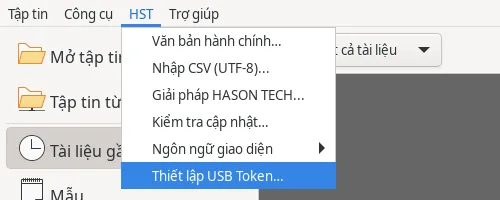
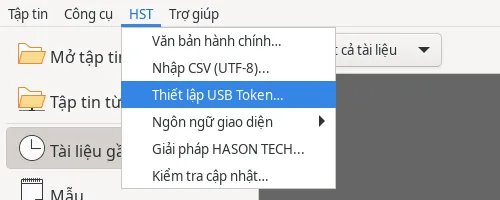
feat(website): sync the reordered HST menu screenshots and version guide images by content

diff --git a/website/office.hasontech.vn/huong-dan/ky-so-usb-token/index.html b/website/office.hasontech.vn/huong-dan/ky-so-usb-token/index.html
@@ -165,8 +165,8 @@
   <li>Đọc kết quả: thư viện đã tìm thấy, đã đăng ký và đường dẫn kho chứng thư. Lệnh chỉ kết nối driver đã cài với HST Office; không cài hoặc kèm driver.</li>
   <li>Nếu được yêu cầu, đóng hết cửa sổ HST Office rồi mở lại. Cắm token và vào <span class="menu">Tập tin ▸ Chữ ký số…</span> để chọn chứng thư và ký.</li>
 </ol>
-<figure><picture><source type="image/webp" srcset="/huong-dan/images/usb-token-menu.webp"><img decoding="async" src="/huong-dan/images/usb-token-menu.png" alt="Menu HST đang mở ở Trang bắt đầu, mục cuối cùng Thiết lập USB Token… đang được chọn." loading="lazy" width="500" height="200"></picture><figcaption>Menu <span class="menu">HST ▸ Thiết lập USB Token…</span> ở Trang bắt đầu.</figcaption></figure>
-<figure><picture><source type="image/webp" srcset="/huong-dan/images/usb-token-result.webp"><img decoding="async" src="/huong-dan/images/usb-token-result.png" alt="Hộp thoại Thiết lập USB Token báo kho chứng thư /home/nguoidung/.pki/nssdb, đã tìm thấy và đăng ký Feitian ePass2003 tại /usr/lib/x86_64-linux-gnu/libcastle.so.1.0.0, yêu cầu khởi động lại HST Office; nút Đồng ý." loading="lazy" width="585" height="232"></picture><figcaption>Kết quả sau khi đăng ký thành công: kho chứng thư, thư viện đã đăng ký và việc cần làm tiếp theo.</figcaption></figure>
+<figure><picture><source type="image/webp" srcset="/huong-dan/images/usb-token-menu.webp?v=1f6c6dea"><img decoding="async" src="/huong-dan/images/usb-token-menu.png?v=1f6c6dea" alt="Menu HST đang mở ở Trang bắt đầu, mục Thiết lập USB Token… đang được chọn." loading="lazy" width="500" height="200"></picture><figcaption>Menu <span class="menu">HST ▸ Thiết lập USB Token…</span> ở Trang bắt đầu.</figcaption></figure>
+<figure><picture><source type="image/webp" srcset="/huong-dan/images/usb-token-result.webp?v=6bcb2bf1"><img decoding="async" src="/huong-dan/images/usb-token-result.png?v=6bcb2bf1" alt="Hộp thoại Thiết lập USB Token báo kho chứng thư /home/nguoidung/.pki/nssdb, đã tìm thấy và đăng ký Feitian ePass2003 tại /usr/lib/x86_64-linux-gnu/libcastle.so.1.0.0, yêu cầu khởi động lại HST Office; nút Đồng ý." loading="lazy" width="585" height="232"></picture><figcaption>Kết quả sau khi đăng ký thành công: kho chứng thư, thư viện đã đăng ký và việc cần làm tiếp theo.</figcaption></figure>
 <p>Chạy lại lệnh không tạo bản đăng ký trùng và không xóa thư viện đã đăng ký. Thiết lập không yêu cầu mã PIN; hộp thoại ký tài liệu mới hỏi mã PIN của thiết bị.</p>
 <div class="note"><p>Nếu chưa tìm thấy thư viện, cài driver từ nhà cung cấp của bạn rồi chạy lại lệnh. Các tên thường gặp gồm Feitian ePass2003, SafeNet eToken, Bit4id và OpenSC. Chỉ dùng OpenSC nếu loại token được hỗ trợ; không phải mọi token của nhà cung cấp đều dùng được với OpenSC.</p></div>
 
@@ -203,9 +203,9 @@
   <li>Bấm <span class="menu">Đóng</span>. Thanh thông báo hiện “Tài liệu này đã được ký điện tử và chữ ký hợp lệ.”</li>
 </ol>
 <p>Hình minh họa dùng chứng thư mẫu, chỉ phục vụ hướng dẫn.</p>
-<figure><picture><source type="image/webp" srcset="/huong-dan/images/usb-token-pin.webp"><img decoding="async" src="/huong-dan/images/usb-token-pin.png" alt="Hộp thoại Nhập mã PIN của thiết bị ký số USB Token với ô Mã PIN đang trống, các nút Trợ giúp, Huỷ và OK." loading="lazy" width="452" height="188"></picture><figcaption>Hộp thoại <span class="menu">Nhập mã PIN</span> của token. Mã PIN không hiển thị khi nhập.</figcaption></figure>
-<figure><picture><source type="image/webp" srcset="/huong-dan/images/usb-token-certificate.webp"><img decoding="async" src="/huong-dan/images/usb-token-certificate.png" alt="Hộp thoại Lựa chọn chứng chỉ, chứng thư nạp từ /home/nguoidung/.pki/nssdb; dòng Cấp cho CÔNG TY TNHH CÔNG NGHỆ HÀ SƠN, Cấp bởi VNPT-CA SHA-256, kiểu X.509, hết hạn 31/10/2029 đang được chọn; ô Mô tả và nút Ký." loading="lazy" width="858" height="590"></picture><figcaption>Chọn chứng thư trên token trong hộp thoại <span class="menu">Lựa chọn chứng chỉ</span>, rồi bấm <span class="menu">Ký</span>. Hình minh họa dùng chứng thư mẫu, chỉ phục vụ hướng dẫn.</figcaption></figure>
-<figure><picture><source type="image/webp" srcset="/huong-dan/images/usb-token-signed.webp"><img decoding="async" src="/huong-dan/images/usb-token-signed.png" alt="Văn bản bao-cao-nam.odt đã ký trong HST Writer, tiêu đề thẻ ghi Đã ký, thanh thông báo xanh: Tài liệu này đã được ký điện tử và chữ ký hợp lệ, nút Hiện chữ ký." loading="lazy" width="1000" height="626"></picture><figcaption>Tài liệu đã ký: thanh thông báo báo chữ ký hợp lệ.</figcaption></figure>
+<figure><picture><source type="image/webp" srcset="/huong-dan/images/usb-token-pin.webp?v=e103e7ec"><img decoding="async" src="/huong-dan/images/usb-token-pin.png?v=e103e7ec" alt="Hộp thoại Nhập mã PIN của thiết bị ký số USB Token với ô Mã PIN đang trống, các nút Trợ giúp, Huỷ và OK." loading="lazy" width="452" height="188"></picture><figcaption>Hộp thoại <span class="menu">Nhập mã PIN</span> của token. Mã PIN không hiển thị khi nhập.</figcaption></figure>
+<figure><picture><source type="image/webp" srcset="/huong-dan/images/usb-token-certificate.webp?v=f640d792"><img decoding="async" src="/huong-dan/images/usb-token-certificate.png?v=f640d792" alt="Hộp thoại Lựa chọn chứng chỉ, chứng thư nạp từ /home/nguoidung/.pki/nssdb; dòng Cấp cho CÔNG TY TNHH CÔNG NGHỆ HÀ SƠN, Cấp bởi VNPT-CA SHA-256, kiểu X.509, hết hạn 31/10/2029 đang được chọn; ô Mô tả và nút Ký." loading="lazy" width="858" height="590"></picture><figcaption>Chọn chứng thư trên token trong hộp thoại <span class="menu">Lựa chọn chứng chỉ</span>, rồi bấm <span class="menu">Ký</span>. Hình minh họa dùng chứng thư mẫu, chỉ phục vụ hướng dẫn.</figcaption></figure>
+<figure><picture><source type="image/webp" srcset="/huong-dan/images/usb-token-signed.webp?v=15858599"><img decoding="async" src="/huong-dan/images/usb-token-signed.png?v=15858599" alt="Văn bản bao-cao-nam.odt đã ký trong HST Writer, tiêu đề thẻ ghi Đã ký, thanh thông báo xanh: Tài liệu này đã được ký điện tử và chữ ký hợp lệ, nút Hiện chữ ký." loading="lazy" width="1000" height="626"></picture><figcaption>Tài liệu đã ký: thanh thông báo báo chữ ký hợp lệ.</figcaption></figure>
 
 <h2>6. Xuất PDF có chữ ký số</h2>
 <ol>

diff --git a/website/office.hasontech.vn/huong-dan/nd30/index.html b/website/office.hasontech.vn/huong-dan/nd30/index.html
@@ -145,8 +145,8 @@
   <li>Ở thẻ <span class="menu">Trang đầu</span>, nhìn góc phải của dải lệnh, bên dưới <span class="menu">Tìm và thay thế</span>: nút <span class="menu">Văn bản hành chính</span>. Nút này luôn hiển thị ở đó, không bị thu vào dấu <span class="menu">»</span>.</li>
   <li>Cách khác: menu <span class="menu">HST → Văn bản hành chính…</span> (nếu thanh menu đang hiện), hoặc thẻ <span class="menu">Phần mở rộng</span>. Mục menu này có cả ở <span class="menu">Trang bắt đầu</span>, HST Sheets và HST Slides; khi chọn ở đó, HST Office tự mở một văn bản trắng mới rồi mới hiện hộp thoại.</li>
 </ol>
-<figure><picture><source type="image/webp" srcset="/huong-dan/images/nd30-where.webp"><img decoding="async" src="/huong-dan/images/nd30-where.png" alt="Thẻ Trang đầu của HST Writer, nút Văn bản hành chính nằm trong khung đỏ ở góc phải dải lệnh, dưới Tìm và thay thế." loading="lazy" width="1251" height="160"></picture><figcaption>Nút <span class="menu">Văn bản hành chính</span> trên thẻ <span class="menu">Trang đầu</span> (khung đỏ).</figcaption></figure>
-<figure><picture><source type="image/webp" srcset="/huong-dan/images/nd30-menu.webp"><img decoding="async" src="/huong-dan/images/nd30-menu.png" alt="Menu HST đang mở ở Trang bắt đầu, mục đầu tiên là Văn bản hành chính…" loading="lazy" width="500" height="145"></picture><figcaption>Menu <span class="menu">HST → Văn bản hành chính…</span> ở Trang bắt đầu.</figcaption></figure>
+<figure><picture><source type="image/webp" srcset="/huong-dan/images/nd30-where.webp?v=ce184154"><img decoding="async" src="/huong-dan/images/nd30-where.png?v=ce184154" alt="Thẻ Trang đầu của HST Writer, nút Văn bản hành chính nằm trong khung đỏ ở góc phải dải lệnh, dưới Tìm và thay thế." loading="lazy" width="1251" height="160"></picture><figcaption>Nút <span class="menu">Văn bản hành chính</span> trên thẻ <span class="menu">Trang đầu</span> (khung đỏ).</figcaption></figure>
+<figure><picture><source type="image/webp" srcset="/huong-dan/images/nd30-menu.webp?v=60cee01b"><img decoding="async" src="/huong-dan/images/nd30-menu.png?v=60cee01b" alt="Menu HST đang mở ở Trang bắt đầu, mục đầu tiên là Văn bản hành chính…" loading="lazy" width="500" height="200"></picture><figcaption>Menu <span class="menu">HST → Văn bản hành chính…</span> ở Trang bắt đầu.</figcaption></figure>
 <h2>Mở công cụ và nhập thông tin</h2>
 <ol>
   <li>Trong HST Writer, đặt con trỏ tại vị trí muốn chèn văn bản.</li>
@@ -158,7 +158,7 @@
   <li>Điền <span class="menu">Quyền hạn ký</span> (TM., KT., Q., TL., TUQ.), <span class="menu">Chức vụ người ký</span> và <span class="menu">Họ tên người ký</span>.</li>
   <li>Điền <span class="menu">Nơi nhận (mỗi nơi một dòng)</span>. Dòng “Lưu: VT, …” được thêm nếu thiếu.</li>
 </ol>
-<figure><picture><source type="image/webp" srcset="/huong-dan/images/nd30-wizard.webp"><img decoding="async" src="/huong-dan/images/nd30-wizard.png" alt="Hộp thoại Văn bản hành chính có các trường thông tin bên trái, bản xem trước công văn bên phải và nút Chèn văn bản phía dưới." loading="lazy" width="1000" height="524"></picture><figcaption>Khung <span class="menu">Xem trước (cập nhật khi bạn nhập)</span> phản ánh thông tin bạn đang điền.</figcaption></figure>
+<figure><picture><source type="image/webp" srcset="/huong-dan/images/nd30-wizard.webp?v=51ef1258"><img decoding="async" src="/huong-dan/images/nd30-wizard.png?v=51ef1258" alt="Hộp thoại Văn bản hành chính có các trường thông tin bên trái, bản xem trước công văn bên phải và nút Chèn văn bản phía dưới." loading="lazy" width="1000" height="524"></picture><figcaption>Khung <span class="menu">Xem trước (cập nhật khi bạn nhập)</span> phản ánh thông tin bạn đang điền.</figcaption></figure>
 <h2>Xem trước và xử lý thông báo</h2>
 <p>Khung <span class="menu">Xem trước (cập nhật khi bạn nhập)</span> hiển thị phần đầu văn bản, trích yếu, nội dung, nơi nhận và chữ ký.</p>
 <p>Nếu có lỗi, thông báo <span class="menu">Vui lòng sửa: …</span> xuất hiện màu đỏ dưới bản xem trước. Nút <span class="menu">Chèn văn bản</span> chỉ dùng được sau khi sửa lỗi.</p>
@@ -176,7 +176,7 @@
   <li>Kiểm tra văn bản đã chèn và điền các chỗ giữ chỗ còn lại.</li>
 </ol>
 <p>Công cụ áp dụng phông Times New Roman, cỡ chữ, chữ in hoa, đường kẻ và căn lề theo Phụ lục I của Nghị định.</p>
-<figure><picture><source type="image/webp" srcset="/huong-dan/images/nd30-result.webp"><img decoding="async" src="/huong-dan/images/nd30-result.png" alt="Công văn sau khi chèn vào HST Writer có phần cơ quan, quốc hiệu, tiêu ngữ, Kính gửi, nội dung, Nơi nhận và chữ ký." loading="lazy" width="1000" height="606"></picture><figcaption>Kết quả chèn công văn vào HST Writer.</figcaption></figure>
+<figure><picture><source type="image/webp" srcset="/huong-dan/images/nd30-result.webp?v=dac8535a"><img decoding="async" src="/huong-dan/images/nd30-result.png?v=dac8535a" alt="Công văn sau khi chèn vào HST Writer có phần cơ quan, quốc hiệu, tiêu ngữ, Kính gửi, nội dung, Nơi nhận và chữ ký." loading="lazy" width="1000" height="606"></picture><figcaption>Kết quả chèn công văn vào HST Writer.</figcaption></figure>
 <p>Nếu vừa chèn sai, nhấn <span class="keys"><kbd>Ctrl</kbd>+<kbd>Z</kbd></span> một lần để xóa toàn bộ văn bản vừa chèn. Thao tác này không khôi phục các thay đổi trang và lịch sử hoàn tác đã nêu ở trên.</p>
 </article>
         <nav class="page-nav" aria-label="Chuyển trang hướng dẫn">

diff --git a/website/office.hasontech.vn/huong-dan/van-ban-trang-in/index.html b/website/office.hasontech.vn/huong-dan/van-ban-trang-in/index.html
@@ -139,7 +139,7 @@
   <h1>Văn bản: trang, in và PDF</h1>
 <h2>Khổ giấy và lề trang</h2>
 <p>Khổ giấy mặc định là A4. Để chỉnh khổ giấy và lề, dùng thẻ <span class="menu">Bố trí</span> hoặc mở <span class="menu">Định dạng → Kiểu trang…</span>.</p>
-<figure><picture><source type="image/webp" srcset="/huong-dan/images/writer-page-style.webp"><img decoding="async" src="/huong-dan/images/writer-page-style.png" alt="Hộp thoại kiểu trang đang mở mục Chung; bên trái có Trang, Đầu trang, Chân trang và các mục khác." loading="lazy" width="987" height="586"></picture><figcaption>Ảnh đang mở mục <span class="menu">Chung</span>; mục <span class="menu">Trang</span> nằm trong danh sách bên trái.</figcaption></figure>
+<figure><picture><source type="image/webp" srcset="/huong-dan/images/writer-page-style.webp?v=ad3f1535"><img decoding="async" src="/huong-dan/images/writer-page-style.png?v=ad3f1535" alt="Hộp thoại kiểu trang đang mở mục Chung; bên trái có Trang, Đầu trang, Chân trang và các mục khác." loading="lazy" width="987" height="586"></picture><figcaption>Ảnh đang mở mục <span class="menu">Chung</span>; mục <span class="menu">Trang</span> nằm trong danh sách bên trái.</figcaption></figure>
 <h2>Đầu trang, chân trang và số trang</h2>
 <p>Các lệnh thêm <span class="menu">Đầu trang</span>, <span class="menu">Chân trang</span> và đánh số trang nằm trên thẻ <span class="menu">Chèn</span>.</p>
 <p>Để ngắt sang trang mới, đặt con trỏ tại chỗ cần ngắt rồi nhấn <span class="keys"><kbd>Ctrl</kbd>+<kbd>Enter</kbd></span>.</p>
@@ -151,14 +151,14 @@
   <li>Trong <span class="menu">Phạm vi và số bản sao</span>, chọn phạm vi cần in và số bản sao.</li>
   <li>Kiểm tra bản xem trước bên trái, khổ giấy và hướng giấy, rồi bấm <span class="menu">In</span>.</li>
 </ol>
-<figure><picture><source type="image/webp" srcset="/huong-dan/images/writer-print.webp"><img decoding="async" src="/huong-dan/images/writer-print.png" alt="Hộp thoại In có bản xem trước ở bên trái, lựa chọn máy in, phạm vi, số bản sao và khổ giấy A4 ở bên phải." loading="lazy" width="858" height="551"></picture><figcaption>Kiểm tra trang xem trước và các thiết lập trước khi bấm <span class="menu">In</span>.</figcaption></figure>
+<figure><picture><source type="image/webp" srcset="/huong-dan/images/writer-print.webp?v=5a87c3f3"><img decoding="async" src="/huong-dan/images/writer-print.png?v=5a87c3f3" alt="Hộp thoại In có bản xem trước ở bên trái, lựa chọn máy in, phạm vi, số bản sao và khổ giấy A4 ở bên phải." loading="lazy" width="858" height="551"></picture><figcaption>Kiểm tra trang xem trước và các thiết lập trước khi bấm <span class="menu">In</span>.</figcaption></figure>
 <h2>Xuất PDF</h2>
 <ol>
   <li>Chọn <span class="menu">Tập tin → Xuất dạng PDF…</span>.</li>
   <li>Trong <span class="menu">Phạm vi</span>, chọn <span class="menu">Tất cả</span>, <span class="menu">Trang</span> hoặc <span class="menu">Lựa chọn</span> theo phần cần xuất.</li>
   <li>Bấm <span class="menu">Xuất</span>.</li>
 </ol>
-<figure><picture><source type="image/webp" srcset="/huong-dan/images/writer-export-pdf.webp"><img decoding="async" src="/huong-dan/images/writer-export-pdf.png" alt="Hộp thoại xuất PDF có các lựa chọn phạm vi Tất cả, Trang, Lựa chọn và nút Xuất ở góc dưới bên phải." loading="lazy" width="1000" height="519"></picture><figcaption>Chọn phạm vi tài liệu cần đưa vào PDF.</figcaption></figure>
+<figure><picture><source type="image/webp" srcset="/huong-dan/images/writer-export-pdf.webp?v=2a0164a5"><img decoding="async" src="/huong-dan/images/writer-export-pdf.png?v=2a0164a5" alt="Hộp thoại xuất PDF có các lựa chọn phạm vi Tất cả, Trang, Lựa chọn và nút Xuất ở góc dưới bên phải." loading="lazy" width="1000" height="519"></picture><figcaption>Chọn phạm vi tài liệu cần đưa vào PDF.</figcaption></figure>
 <div class="note">Với tài liệu quan trọng gửi ở định dạng Word, Excel hoặc PowerPoint, hãy mở lại tệp đã lưu để kiểm tra hoặc gửi kèm bản PDF.</div>
 </article>
         <nav class="page-nav" aria-label="Chuyển trang hướng dẫn">

diff --git a/website/office.hasontech.vn/huong-dan/van-ban-soan-thao/index.html b/website/office.hasontech.vn/huong-dan/van-ban-soan-thao/index.html
@@ -145,7 +145,7 @@
   <li>Mở thẻ <span class="menu">Trang đầu</span> để đổi phông và cỡ chữ.</li>
   <li>Dùng <span class="keys"><kbd>Ctrl</kbd>+<kbd>B</kbd></span> để in đậm, <span class="keys"><kbd>Ctrl</kbd>+<kbd>I</kbd></span> để in nghiêng hoặc <span class="keys"><kbd>Ctrl</kbd>+<kbd>U</kbd></span> để gạch chân.</li>
 </ol>
-<figure><picture><source type="image/webp" srcset="/huong-dan/images/writer-home.webp"><img decoding="async" src="/huong-dan/images/writer-home.png" alt="Thẻ Trang đầu trong HST Writer hiển thị phông Times New Roman, cỡ chữ 12 pt và các nút định dạng chữ." loading="lazy" width="1000" height="626"></picture><figcaption>Các lệnh phông chữ và đoạn văn nằm trên thẻ <span class="menu">Trang đầu</span>.</figcaption></figure>
+<figure><picture><source type="image/webp" srcset="/huong-dan/images/writer-home.webp?v=1a98be83"><img decoding="async" src="/huong-dan/images/writer-home.png?v=1a98be83" alt="Thẻ Trang đầu trong HST Writer hiển thị phông Times New Roman, cỡ chữ 12 pt và các nút định dạng chữ." loading="lazy" width="1000" height="626"></picture><figcaption>Các lệnh phông chữ và đoạn văn nằm trên thẻ <span class="menu">Trang đầu</span>.</figcaption></figure>
 <h2>Căn lề đoạn văn</h2>
 <p>Chọn đoạn cần định dạng, rồi dùng phím tắt tương ứng.</p>
 <table><thead><tr><th scope="col">Cách căn</th><th scope="col">Phím tắt</th></tr></thead><tbody>
@@ -161,7 +161,7 @@
   <li>Trong mục <span class="menu">Thụt lề &amp; giãn cách</span>, điều chỉnh phần thụt lề, khoảng cách đoạn và giãn dòng theo nhu cầu.</li>
   <li>Bấm <span class="menu">OK</span>.</li>
 </ol>
-<figure><picture><source type="image/webp" srcset="/huong-dan/images/writer-paragraph.webp"><img decoding="async" src="/huong-dan/images/writer-paragraph.png" alt="Hộp thoại Đoạn văn hiển thị Thụt lề, Giãn cách và Giãn cách dòng." loading="lazy" width="1000" height="610"></picture><figcaption>Hộp thoại <span class="menu">Đoạn văn</span> dùng để điều chỉnh cách trình bày đoạn.</figcaption></figure>
+<figure><picture><source type="image/webp" srcset="/huong-dan/images/writer-paragraph.webp?v=16d039bd"><img decoding="async" src="/huong-dan/images/writer-paragraph.png?v=16d039bd" alt="Hộp thoại Đoạn văn hiển thị Thụt lề, Giãn cách và Giãn cách dòng." loading="lazy" width="1000" height="610"></picture><figcaption>Hộp thoại <span class="menu">Đoạn văn</span> dùng để điều chỉnh cách trình bày đoạn.</figcaption></figure>
 <h2>Dùng kiểu đoạn</h2>
 <p>Dùng <span class="menu">Tiêu đề 1</span>, <span class="menu">Tiêu đề 2</span> cho các tiêu đề và <span class="menu">Nội dung văn bản</span> cho phần nội dung. Kiểu đoạn giúp định dạng thống nhất; mục lục tự động dựa vào các kiểu tiêu đề.</p>
 <p>Để thêm bảng hoặc ảnh, xem <a href="/huong-dan/van-ban-bang-hinh/">Bảng, hình ảnh, tìm kiếm</a>. Để đặt lề trang, xem <a href="/huong-dan/van-ban-trang-in/">Trang, in và PDF</a>.</p>

diff --git a/website/office.hasontech.vn/huong-dan/van-ban-bang-hinh/index.html b/website/office.hasontech.vn/huong-dan/van-ban-bang-hinh/index.html
@@ -155,14 +155,14 @@
   <li>Bấm <span class="menu">Tìm tiếp theo</span> để xem từng kết quả, rồi bấm <span class="menu">Thay thế</span> khi cần đổi.</li>
 </ol>
 <p>Hộp thoại còn có <span class="menu">Thay thế tất cả</span>, <span class="menu">So sánh hoa/thường</span> và <span class="menu">Chỉ tìm nguyên từ</span>.</p>
-<figure><picture><source type="image/webp" srcset="/huong-dan/images/writer-find-replace.webp"><img decoding="async" src="/huong-dan/images/writer-find-replace.png" alt="Hộp thoại Tìm và thay thế với hai ô Tìm, Thay thế và các nút tìm, thay thế." loading="lazy" width="699" height="301"></picture><figcaption>Điền nội dung cần tìm và nội dung thay thế trong hai ô tương ứng.</figcaption></figure>
+<figure><picture><source type="image/webp" srcset="/huong-dan/images/writer-find-replace.webp?v=5c44be12"><img decoding="async" src="/huong-dan/images/writer-find-replace.png?v=5c44be12" alt="Hộp thoại Tìm và thay thế với hai ô Tìm, Thay thế và các nút tìm, thay thế." loading="lazy" width="699" height="301"></picture><figcaption>Điền nội dung cần tìm và nội dung thay thế trong hai ô tương ứng.</figcaption></figure>
 <h2>Kiểm tra chính tả</h2>
 <ol>
   <li>Nhấn <span class="keys"><kbd>F7</kbd></span> hoặc chọn <span class="menu">Công cụ → Chính tả…</span>.</li>
   <li>Xem từ nghi sai và phần gợi ý trong hộp thoại. Với văn bản tiếng Việt, kiểm tra mục <span class="menu">Ngôn ngữ văn bản</span> hiển thị <span class="menu">Việt</span>.</li>
   <li>Dùng <span class="menu">Sửa</span> khi có cách sửa phù hợp, hoặc <span class="menu">Bỏ qua một lần</span> để giữ từ đang xem.</li>
 </ol>
-<figure><picture><source type="image/webp" srcset="/huong-dan/images/writer-spelling.webp"><img decoding="async" src="/huong-dan/images/writer-spelling.png" alt="Hộp thoại chính tả có ngôn ngữ Việt, một từ tô đỏ và các nút Bỏ qua một lần, Bỏ qua tất cả, Thêm vào từ điển." loading="lazy" width="683" height="472"></picture><figcaption>Từ nghi sai được tô đỏ trong hộp thoại kiểm tra chính tả.</figcaption></figure>
+<figure><picture><source type="image/webp" srcset="/huong-dan/images/writer-spelling.webp?v=3e5999b7"><img decoding="async" src="/huong-dan/images/writer-spelling.png?v=3e5999b7" alt="Hộp thoại chính tả có ngôn ngữ Việt, một từ tô đỏ và các nút Bỏ qua một lần, Bỏ qua tất cả, Thêm vào từ điển." loading="lazy" width="683" height="472"></picture><figcaption>Từ nghi sai được tô đỏ trong hộp thoại kiểm tra chính tả.</figcaption></figure>
 <div class="note">Gạch chân đỏ chỉ đánh dấu từ nghi sai. Bạn cần xem lại từ trong ngữ cảnh trước khi sửa.</div>
 </article>
         <nav class="page-nav" aria-label="Chuyển trang hướng dẫn">

diff --git a/website/office.hasontech.vn/huong-dan/chuyen-ma/index.html b/website/office.hasontech.vn/huong-dan/chuyen-ma/index.html
@@ -138,7 +138,7 @@
   <p class="eyebrow">Công cụ HST · Văn bản và Bảng tính</p>
   <h1>Chuyển TCVN3/VNI sang Unicode</h1>
 <p class="lead">Tài liệu và bảng tính cũ dùng phông <code>.VnTime</code> (TCVN3/ABC) hoặc <code>VNI-Times</code> có thể hiện thành ký tự lạ trên máy mới. Dùng công cụ chuyển mã trong HST Writer hoặc HST Calc (HST Sheets) để chuyển sang Unicode.</p>
-<figure><picture><source type="image/webp" srcset="/huong-dan/images/convert-before.webp"><img decoding="async" src="/huong-dan/images/convert-before.png" alt="Đoạn văn bản cũ đang được chọn trong HST Writer; ô phông hiển thị .VnTime và văn bản có dấu không đúng." loading="lazy" width="1000" height="606"></picture><figcaption>Ví dụ văn bản dùng phông cũ trước khi chuyển mã.</figcaption></figure>
+<figure><picture><source type="image/webp" srcset="/huong-dan/images/convert-before.webp?v=8bbcf42e"><img decoding="async" src="/huong-dan/images/convert-before.png?v=8bbcf42e" alt="Đoạn văn bản cũ đang được chọn trong HST Writer; ô phông hiển thị .VnTime và văn bản có dấu không đúng." loading="lazy" width="1000" height="606"></picture><figcaption>Ví dụ văn bản dùng phông cũ trước khi chuyển mã.</figcaption></figure>
 <h2>Chọn văn bản và chuyển mã trong HST Writer</h2>
 <ol>
   <li>Mở tài liệu trong HST Writer.</li>
@@ -150,7 +150,7 @@
   <li>Khi kết quả phù hợp, bấm <span class="menu">Chuyển</span>.</li>
 </ol>
 <div class="note"><strong>Bạn cần chọn bảng mã nguồn.</strong> Gợi ý không được áp dụng tự động.</div>
-<figure><picture><source type="image/webp" srcset="/huong-dan/images/convert-dialog.webp"><img decoding="async" src="/huong-dan/images/convert-dialog.png" alt="Hộp thoại chuyển mã có Bảng mã nguồn chưa chọn, gợi ý TCVN3 (ABC), khung Bản gốc, khung Kết quả đang trống và nút Xem trước." loading="lazy" width="945" height="563"></picture><figcaption>Ảnh cho thấy gợi ý TCVN3; <span class="menu">Bảng mã nguồn</span> vẫn chưa được chọn.</figcaption></figure>
+<figure><picture><source type="image/webp" srcset="/huong-dan/images/convert-dialog.webp?v=84f4354c"><img decoding="async" src="/huong-dan/images/convert-dialog.png?v=84f4354c" alt="Hộp thoại chuyển mã có Bảng mã nguồn chưa chọn, gợi ý TCVN3 (ABC), khung Bản gốc, khung Kết quả đang trống và nút Xem trước." loading="lazy" width="945" height="563"></picture><figcaption>Ảnh cho thấy gợi ý TCVN3; <span class="menu">Bảng mã nguồn</span> vẫn chưa được chọn.</figcaption></figure>
 <h2>Những gì được giữ lại trong HST Writer</h2>
 <ul>
   <li>Định dạng đậm, nghiêng và cỡ chữ được giữ nguyên.</li>

diff --git a/website/office.hasontech.vn/huong-dan/dinh-dang-office/index.html b/website/office.hasontech.vn/huong-dan/dinh-dang-office/index.html
@@ -158,7 +158,7 @@
   <li>Mở <span class="menu">Công cụ → Tùy chọn… → Tải/Lưu → Chung</span>.</li>
   <li>Tại mục <span class="menu">Luôn lưu thành:</span>, chọn loại tài liệu và định dạng bạn muốn dùng.</li>
 </ol>
-<figure><picture><source type="image/webp" srcset="/huong-dan/images/options.webp"><img decoding="async" src="/huong-dan/images/options.png" alt="Cửa sổ Tùy chọn có mục Tải/Lưu trong cây bên trái; phần đang mở là Dữ liệu người dùng." loading="lazy" width="1000" height="745"></picture><figcaption>Mục <span class="menu">Tải/Lưu</span> nằm bên trái. Ảnh đang mở <span class="menu">Dữ liệu người dùng</span>, chưa hiển thị thiết lập <span class="menu">Luôn lưu thành:</span>.</figcaption></figure>
+<figure><picture><source type="image/webp" srcset="/huong-dan/images/options.webp?v=11fb5c60"><img decoding="async" src="/huong-dan/images/options.png?v=11fb5c60" alt="Cửa sổ Tùy chọn có mục Tải/Lưu trong cây bên trái; phần đang mở là Dữ liệu người dùng." loading="lazy" width="1000" height="745"></picture><figcaption>Mục <span class="menu">Tải/Lưu</span> nằm bên trái. Ảnh đang mở <span class="menu">Dữ liệu người dùng</span>, chưa hiển thị thiết lập <span class="menu">Luôn lưu thành:</span>.</figcaption></figure>
 <div class="note"><strong>Kiểm tra tệp sau khi lưu.</strong> Phông chữ, hiệu ứng và macro có thể làm tài liệu hiển thị khác nhau. HST Office không bảo đảm giữ nguyên hoàn toàn cách hiển thị. Với tài liệu quan trọng, hãy mở lại tệp đã lưu để kiểm tra hoặc gửi kèm bản PDF.</div>
 <p>Xem <a href="/huong-dan/van-ban-trang-in/">cách xuất PDF trong HST Writer</a>.</p>
 </article>

diff --git a/website/office.hasontech.vn/huong-dan/bang-tinh-cong-thuc/index.html b/website/office.hasontech.vn/huong-dan/bang-tinh-cong-thuc/index.html
@@ -150,7 +150,7 @@
 <h2>Tính tổng một cột</h2>
 <p>Nút <span class="menu">Tổng</span> (Σ) trên thẻ <span class="menu">Trang đầu</span> dùng để cộng nhanh một cột. Bạn cũng có thể nhập công thức <code>SUM</code> để chỉ rõ vùng cần cộng.</p>
 <p>Trong bảng mẫu dưới đây, ô <code>E6</code> có công thức <code>=SUM(E2:E5)</code>. Kết quả hiển thị là <code>55.800.000 ₫</code>.</p>
-<figure><picture><source type="image/webp" srcset="/huong-dan/images/calc-home.webp"><img decoding="async" src="/huong-dan/images/calc-home.png" alt="Ô E6 được chọn trong bảng lương, thanh công thức hiển thị =SUM(E2:E5), kết quả trong ô là 55.800.000 ₫." loading="lazy" width="1000" height="606"></picture><figcaption>Công thức ở E6 cộng các mức lương từ E2 đến E5.</figcaption></figure>
+<figure><picture><source type="image/webp" srcset="/huong-dan/images/calc-home.webp?v=9c9359d5"><img decoding="async" src="/huong-dan/images/calc-home.png?v=9c9359d5" alt="Ô E6 được chọn trong bảng lương, thanh công thức hiển thị =SUM(E2:E5), kết quả trong ô là 55.800.000 ₫." loading="lazy" width="1000" height="606"></picture><figcaption>Công thức ở E6 cộng các mức lương từ E2 đến E5.</figcaption></figure>
 <div class="note">Các lệnh định dạng của HST chỉ đổi cách hiển thị; giá trị và công thức được giữ nguyên. Xem <a href="/huong-dan/bang-tinh-dinh-dang/">định dạng bảng tính</a>.</div>
 </article>
         <nav class="page-nav" aria-label="Chuyển trang hướng dẫn">

diff --git a/website/office.hasontech.vn/huong-dan/bat-dau/index.html b/website/office.hasontech.vn/huong-dan/bat-dau/index.html
@@ -143,7 +143,7 @@
   <li>Mở HST Office để đến <span class="menu">Trang bắt đầu</span>.</li>
   <li>Trong mục <span class="menu">Tạo:</span> bên trái, bấm <span class="menu">Văn bản</span>, <span class="menu">Bảng tính</span> hoặc <span class="menu">Trình chiếu</span>.</li>
 </ol>
-<figure><picture><source type="image/webp" srcset="/huong-dan/images/start-center.webp"><img decoding="async" src="/huong-dan/images/start-center.png" alt="Trang bắt đầu với các mục tạo Văn bản, Bảng tính, Trình chiếu và Mở tập tin ở bên trái." loading="lazy" width="1000" height="625"></picture><figcaption>Chọn loại tài liệu trong mục <span class="menu">Tạo:</span> để bắt đầu.</figcaption></figure>
+<figure><picture><source type="image/webp" srcset="/huong-dan/images/start-center.webp?v=45460d86"><img decoding="async" src="/huong-dan/images/start-center.png?v=45460d86" alt="Trang bắt đầu với các mục tạo Văn bản, Bảng tính, Trình chiếu và Mở tập tin ở bên trái." loading="lazy" width="1000" height="625"></picture><figcaption>Chọn loại tài liệu trong mục <span class="menu">Tạo:</span> để bắt đầu.</figcaption></figure>
 <h2>Mở và lưu tệp</h2>
 <ol>
   <li>Bấm <span class="menu">Mở tập tin</span> trên <span class="menu">Trang bắt đầu</span>, hoặc chọn <span class="menu">Tập tin → Mở…</span> (<span class="keys"><kbd>Ctrl</kbd>+<kbd>O</kbd></span>).</li>

diff --git a/website/office.hasontech.vn/huong-dan/trinh-chieu/index.html b/website/office.hasontech.vn/huong-dan/trinh-chieu/index.html
@@ -146,7 +146,7 @@
   <li>Bấm vào ô dành cho tiêu đề hoặc văn bản để gõ nội dung.</li>
 </ol>
 <p>Bạn có thể chèn ảnh, bảng và biểu đồ từ thẻ <span class="menu">Chèn</span>.</p>
-<figure><picture><source type="image/webp" srcset="/huong-dan/images/impress-home.webp"><img decoding="async" src="/huong-dan/images/impress-home.png" alt="HST Slides hiển thị trang chiếu Kế hoạch chuyển đổi số 2027; danh sách trang chiếu bên trái và các bố trí bên phải." loading="lazy" width="1000" height="606"></picture><figcaption>Chọn bố cục trong mục <span class="menu">Bố trí</span> trên <span class="menu">Thanh bên</span>.</figcaption></figure>
+<figure><picture><source type="image/webp" srcset="/huong-dan/images/impress-home.webp?v=8d199bb5"><img decoding="async" src="/huong-dan/images/impress-home.png?v=8d199bb5" alt="HST Slides hiển thị trang chiếu Kế hoạch chuyển đổi số 2027; danh sách trang chiếu bên trái và các bố trí bên phải." loading="lazy" width="1000" height="606"></picture><figcaption>Chọn bố cục trong mục <span class="menu">Bố trí</span> trên <span class="menu">Thanh bên</span>.</figcaption></figure>
 <h2>Chạy và thoát trình chiếu</h2>
 <table><thead><tr><th scope="col">Thao tác</th><th scope="col">Phím tắt</th></tr></thead><tbody>
 <tr><td>Trình chiếu từ trang đầu</td><td><span class="keys"><kbd>F5</kbd></span></td></tr>

diff --git a/website/office.hasontech.vn/huong-dan/bang-tinh-csv/index.html b/website/office.hasontech.vn/huong-dan/bang-tinh-csv/index.html
@@ -148,7 +148,7 @@
   <li>Chọn <span class="menu">Kiểu ô</span> theo cách bạn muốn giữ dữ liệu, như mô tả bên dưới.</li>
   <li>Bấm <span class="menu">Tải xem trước</span> và kiểm tra dữ liệu trước khi nhập.</li>
 </ol>
-<figure><picture><source type="image/webp" srcset="/huong-dan/images/calc-import-csv.webp"><img decoding="async" src="/huong-dan/images/calc-import-csv.png" alt="Hộp thoại Nhập CSV có Tệp, Chọn tệp CSV, Dấu phân tách, Kiểu ô, Tải xem trước và Đồng ý." loading="lazy" width="900" height="473"></picture><figcaption>Ảnh hiển thị kiểu ô <span class="menu">Văn bản (giữ 00123, =, +, -, @)</span>.</figcaption></figure>
+<figure><picture><source type="image/webp" srcset="/huong-dan/images/calc-import-csv.webp?v=f156101a"><img decoding="async" src="/huong-dan/images/calc-import-csv.png?v=f156101a" alt="Hộp thoại Nhập CSV có Tệp, Chọn tệp CSV, Dấu phân tách, Kiểu ô, Tải xem trước và Đồng ý." loading="lazy" width="900" height="473"></picture><figcaption>Ảnh hiển thị kiểu ô <span class="menu">Văn bản (giữ 00123, =, +, -, @)</span>.</figcaption></figure>
 <h2>Chọn kiểu ô</h2>
 <ul>
   <li><span class="menu">Văn bản (giữ 00123, =, +, -, @)</span>: dùng khi cần giữ nguyên mã số, số điện thoại hoặc nội dung có các ký tự này.</li>

diff --git a/website/office.hasontech.vn/huong-dan/giao-dien/index.html b/website/office.hasontech.vn/huong-dan/giao-dien/index.html
@@ -138,7 +138,7 @@
   <p class="eyebrow">Bắt đầu</p>
   <h1>Giao diện theo thẻ</h1>
 <p class="lead">Giao diện <span class="menu">Theo thẻ</span> được bật sẵn. Các lệnh được xếp thành nhóm trên các thẻ ở phía trên cửa sổ.</p>
-<figure><picture><source type="image/webp" srcset="/huong-dan/images/writer-home.webp"><img decoding="async" src="/huong-dan/images/writer-home.png" alt="HST Writer mở thẻ Trang đầu, với các nhóm Phông, Đoạn văn và dãy biểu tượng Thanh bên ở bên phải." loading="lazy" width="1000" height="626"></picture><figcaption>Thẻ <span class="menu">Trang đầu</span> trong HST Writer; <span class="menu">Thanh bên</span> nằm ở cạnh phải.</figcaption></figure>
+<figure><picture><source type="image/webp" srcset="/huong-dan/images/writer-home.webp?v=1a98be83"><img decoding="async" src="/huong-dan/images/writer-home.png?v=1a98be83" alt="HST Writer mở thẻ Trang đầu, với các nhóm Phông, Đoạn văn và dãy biểu tượng Thanh bên ở bên phải." loading="lazy" width="1000" height="626"></picture><figcaption>Thẻ <span class="menu">Trang đầu</span> trong HST Writer; <span class="menu">Thanh bên</span> nằm ở cạnh phải.</figcaption></figure>
 <h2>Tìm lệnh theo công việc</h2>
 <ul>
   <li><span class="menu">Tập tin</span>: tạo, mở, lưu, in và xuất PDF.</li>
